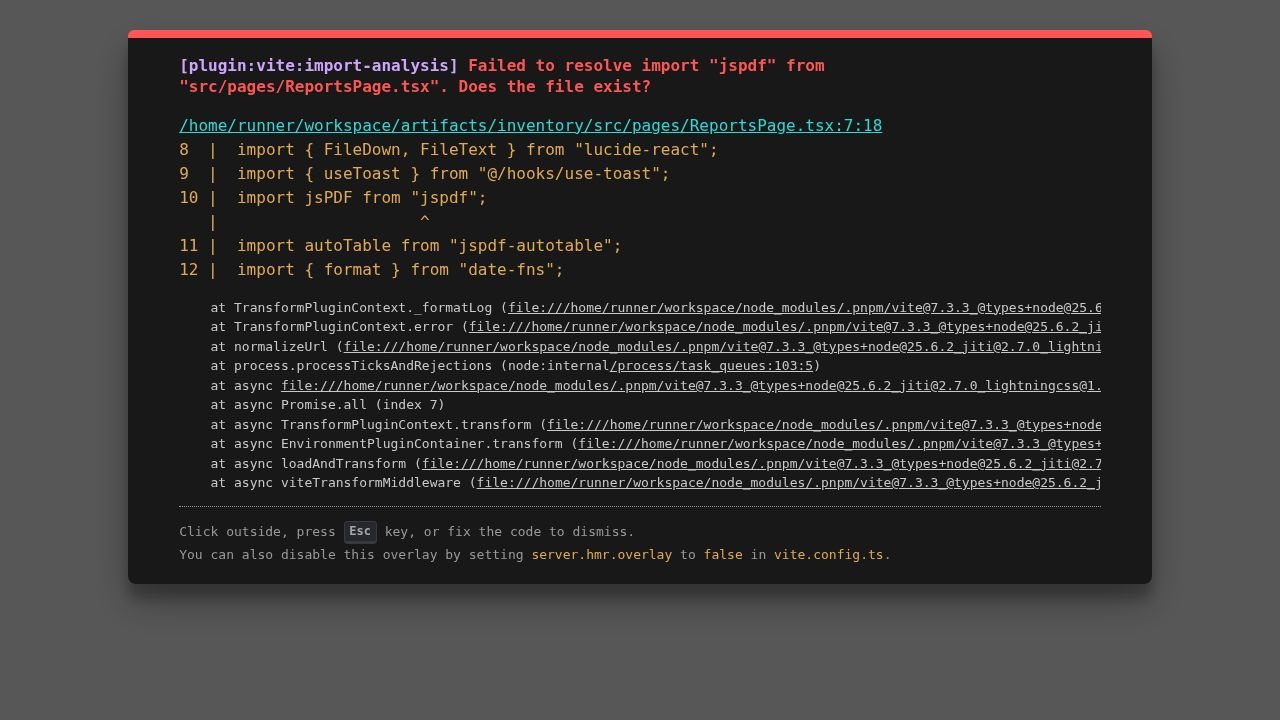
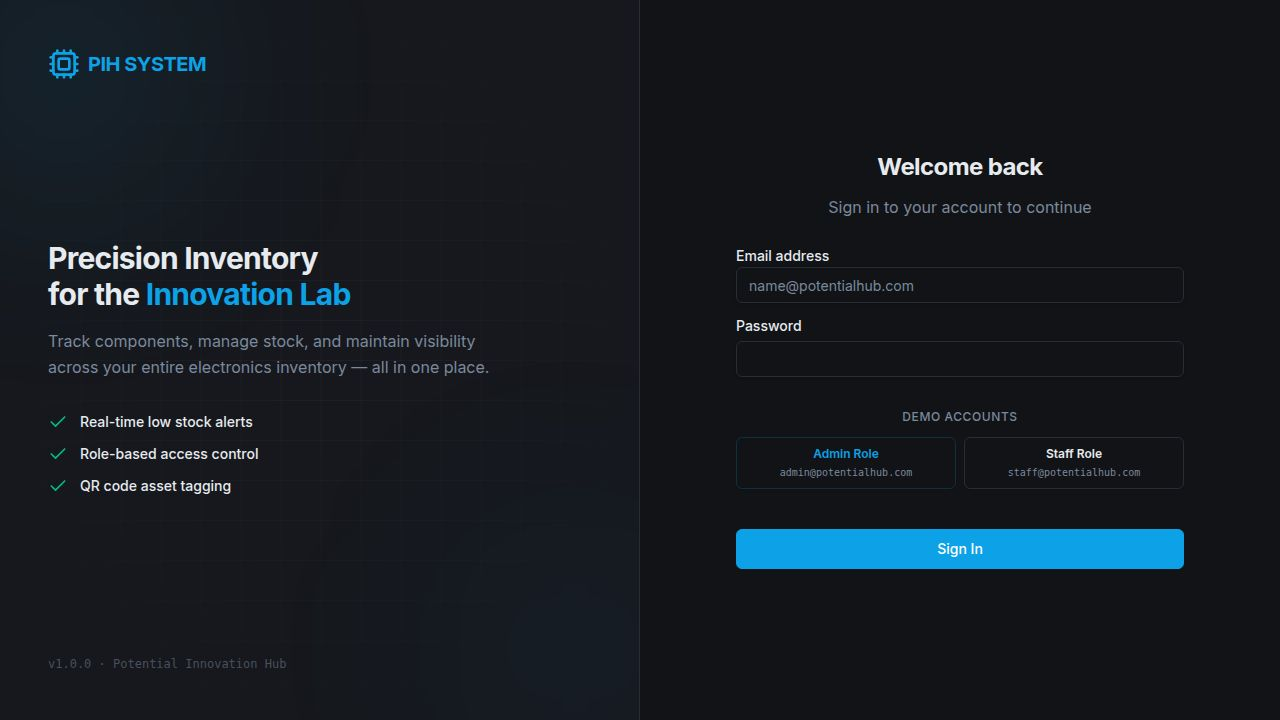
Add analytics and reporting features to the inventory system
Implement a new Analytics page with various charts and data visualizations. Add route, sidebar link, and update seed data for enhanced activity logging in InventoryContext.

Replit-Commit-Author: Agent
Replit-Commit-Session-Id: 5e228c1e-0fa5-49ac-8a54-2dff57d253f3
Replit-Commit-Checkpoint-Type: full_checkpoint
Replit-Commit-Event-Id: 973bac39-b75d-4238-b868-bb2c022313d0
Replit-Commit-Screenshot-Url: https://storage.googleapis.com/screenshot-production-us-central1/1eb6c5bf-e7fe-4302-af5e-14810ef1dc81/5e228c1e-0fa5-49ac-8a54-2dff57d253f3/sZeF8Xh
Replit-Helium-Checkpoint-Created: true

diff --git a/artifacts/inventory/src/pages/AnalyticsPage.tsx b/artifacts/inventory/src/pages/AnalyticsPage.tsx
@@ -1,0 +1,247 @@
+import { useMemo } from "react";
+import { AppLayout } from "@/components/layout/AppLayout";
+import { PageHeader } from "@/components/layout/PageHeader";
+import { StatCard } from "@/components/dashboard/StatCard";
+import { useInventory } from "@/context/InventoryContext";
+import { Card, CardContent, CardDescription, CardHeader, CardTitle } from "@/components/ui/card";
+import { Badge } from "@/components/ui/badge";
+import { Table, TableBody, TableCell, TableHead, TableHeader, TableRow } from "@/components/ui/table";
+import { Activity, Package, TrendingUp, Users } from "lucide-react";
+import { Area, AreaChart, Bar, BarChart, CartesianGrid, Cell, Legend, Pie, PieChart, ResponsiveContainer, Tooltip, XAxis, YAxis } from "recharts";
+import { add, format, subDays, startOfDay, eachDayOfInterval } from "date-fns";
+
+const PIE_COLORS: Record<string, string> = {
+  Microcontroller: "#22d3ee",
+  Sensor: "#34d399",
+  Motor: "#f59e0b",
+  Breadboard: "#f97316",
+  Wiring: "#a78bfa",
+  Display: "#60a5fa",
+  Other: "#94a3b8"
+};
+
+export default function AnalyticsPage() {
+  const { activityLog, products } = useInventory();
+  
+  // Section A
+  const adjustedLogs = useMemo(() => activityLog.filter(l => l.action === "adjusted"), [activityLog]);
+  const totalAdjustments = adjustedLogs.length;
+
+  const { mostActiveProduct, avgDailyAdjustments, mostActiveUser } = useMemo(() => {
+    const productCounts = adjustedLogs.reduce((acc, log) => {
+      acc[log.productName] = (acc[log.productName] || 0) + 1;
+      return acc;
+    }, {} as Record<string, number>);
+    const mostProduct = Object.keys(productCounts).reduce((a, b) => productCounts[a] > productCounts[b] ? a : b, "");
+
+    const daysWithActivity = new Set(activityLog.map(l => format(new Date(l.timestamp), "yyyy-MM-dd"))).size;
+    const avgDaily = daysWithActivity > 0 ? (totalAdjustments / daysWithActivity).toFixed(1) : "0.0";
+
+    const userCounts = activityLog.reduce((acc, log) => {
+      acc[log.performedBy] = (acc[log.performedBy] || 0) + 1;
+      return acc;
+    }, {} as Record<string, number>);
+    const mostUser = Object.keys(userCounts).reduce((a, b) => userCounts[a] > userCounts[b] ? a : b, "");
+
+    return { mostActiveProduct: mostProduct, avgDailyAdjustments: avgDaily, mostActiveUser: mostUser };
+  }, [adjustedLogs, activityLog, totalAdjustments]);
+
+  // Section B
+  const areaData = useMemo(() => {
+    const thirtyDaysAgo = subDays(startOfDay(new Date()), 30);
+    const recentLogs = activityLog.filter(l => new Date(l.timestamp) >= thirtyDaysAgo);
+    
+    const dailyDataMap = recentLogs.reduce((acc, log) => {
+      const date = format(new Date(log.timestamp), "yyyy-MM-dd");
+      if (!acc[date]) acc[date] = { date, adjustments: 0, edits: 0, total: 0 };
+      acc[date].total += 1;
+      if (log.action === "adjusted") acc[date].adjustments += 1;
+      if (log.action === "edited") acc[date].edits += 1;
+      return acc;
+    }, {} as Record<string, { date: string, adjustments: number, edits: number, total: number }>);
+
+    const daysInterval = eachDayOfInterval({ start: thirtyDaysAgo, end: new Date() });
+    return daysInterval.map(day => {
+      const dateStr = format(day, "yyyy-MM-dd");
+      return dailyDataMap[dateStr] || { date: dateStr, adjustments: 0, edits: 0, total: 0 };
+    });
+  }, [activityLog]);
+
+  // Section C Left
+  const topAdjusted = useMemo(() => {
+    const productCounts = adjustedLogs.reduce((acc, log) => {
+      acc[log.productName] = (acc[log.productName] || 0) + 1;
+      return acc;
+    }, {} as Record<string, number>);
+    return Object.entries(productCounts)
+      .map(([name, count]) => ({ name, count }))
+      .sort((a, b) => b.count - a.count)
+      .slice(0, 8);
+  }, [adjustedLogs]);
+
+  // Section C Right
+  const pieData = useMemo(() => {
+    const pieDataMap = adjustedLogs.reduce((acc, log) => {
+      const product = products.find(p => p.id === log.productId);
+      const cat = product ? product.category : "Other";
+      acc[cat] = (acc[cat] || 0) + 1;
+      return acc;
+    }, {} as Record<string, number>);
+    return Object.entries(pieDataMap).map(([name, value]) => ({ name, value }));
+  }, [adjustedLogs, products]);
+
+  // Section D
+  const reorderForecast = useMemo(() => {
+    return products
+      .filter(p => adjustedLogs.some(l => l.productId === p.id))
+      .map(p => {
+        const count = adjustedLogs.filter(l => l.productId === p.id).length;
+        const avg = count / 30;
+        const daysUntil = avg > 0 ? Math.floor((p.quantity - p.minThreshold) / avg) : null;
+        const projDate = daysUntil !== null ? add(new Date(), { days: daysUntil }) : null;
+        return { product: p, avg, daysUntil, projDate };
+      })
+      .sort((a, b) => {
+        if (a.daysUntil === null) return 1;
+        if (b.daysUntil === null) return -1;
+        return a.daysUntil - b.daysUntil;
+      });
+  }, [products, adjustedLogs]);
+
+  return (
+    <AppLayout>
+      <div className="space-y-6">
+        <PageHeader crumbs={[{ label: "Dashboard", href: "/dashboard" }, { label: "Analytics" }]} />
+        <div>
+          <h1 className="text-2xl font-bold tracking-tight">Usage Analytics</h1>
+          <p className="text-sm text-muted-foreground mt-1">Consumption trends and adjustment frequency across the inventory</p>
+        </div>
+
+        <div className="grid grid-cols-1 md:grid-cols-4 gap-4">
+          <StatCard title="Total Adjustments" value={totalAdjustments} icon={<Activity className="h-4 w-4" />} />
+          <StatCard title="Most Active Product" value={mostActiveProduct || "-"} icon={<Package className="h-4 w-4" />} />
+          <StatCard title="Avg Daily Adjustments" value={avgDailyAdjustments} icon={<TrendingUp className="h-4 w-4" />} />
+          <StatCard title="Most Active User" value={mostActiveUser || "-"} icon={<Users className="h-4 w-4" />} />
+        </div>
+
+        <Card>
+          <CardHeader>
+            <CardTitle>Adjustment Activity — Last 30 Days</CardTitle>
+          </CardHeader>
+          <CardContent>
+            <div className="h-[220px] w-full">
+              <ResponsiveContainer width="100%" height="100%">
+                <AreaChart data={areaData} margin={{ top: 10, right: 30, left: 0, bottom: 0 }}>
+                  <defs>
+                    <linearGradient id="colorAdj" x1="0" y1="0" x2="0" y2="1">
+                      <stop offset="5%" stopColor="#22d3ee" stopOpacity={0.15}/>
+                      <stop offset="95%" stopColor="#22d3ee" stopOpacity={0}/>
+                    </linearGradient>
+                    <linearGradient id="colorEdits" x1="0" y1="0" x2="0" y2="1">
+                      <stop offset="5%" stopColor="#a78bfa" stopOpacity={0.15}/>
+                      <stop offset="95%" stopColor="#a78bfa" stopOpacity={0}/>
+                    </linearGradient>
+                  </defs>
+                  <XAxis dataKey="date" tickFormatter={(val) => format(new Date(val), "MMM d")} tick={{ fill: "#64748b" }} interval={4} />
+                  <YAxis tick={{ fill: "#64748b" }} />
+                  <CartesianGrid strokeDasharray="3 3" stroke="#1e293b" />
+                  <Tooltip contentStyle={{ backgroundColor: 'hsl(220 13% 12%)', border: '1px solid hsl(220 12% 18%)', borderRadius: '6px', color: 'hsl(210 20% 92%)' }} labelFormatter={(val) => format(new Date(val), "MMM d, yyyy")} />
+                  <Legend verticalAlign="bottom" height={36} />
+                  <Area type="monotone" dataKey="adjustments" name="Adjustments" stroke="#22d3ee" fillOpacity={1} fill="url(#colorAdj)" />
+                  <Area type="monotone" dataKey="edits" name="Edits" stroke="#a78bfa" fillOpacity={1} fill="url(#colorEdits)" />
+                </AreaChart>
+              </ResponsiveContainer>
+            </div>
+          </CardContent>
+        </Card>
+
+        <div className="grid grid-cols-1 md:grid-cols-2 gap-6">
+          <Card>
+            <CardHeader>
+              <CardTitle>Most Adjusted Components</CardTitle>
+            </CardHeader>
+            <CardContent>
+              <div className="h-[260px] w-full">
+                <ResponsiveContainer width="100%" height="100%">
+                  <BarChart data={topAdjusted} layout="vertical" margin={{ top: 0, right: 20, left: 0, bottom: 0 }}>
+                    <XAxis type="number" tick={{ fill: "#64748b" }} />
+                    <YAxis dataKey="name" type="category" width={140} tick={{ fill: "#94a3b8", fontSize: 11 }} />
+                    <CartesianGrid strokeDasharray="3 3" stroke="#1e293b" horizontal={false} />
+                    <Tooltip contentStyle={{ backgroundColor: 'hsl(220 13% 12%)', border: '1px solid hsl(220 12% 18%)', borderRadius: '6px', color: 'hsl(210 20% 92%)' }} cursor={{ fill: 'rgba(255, 255, 255, 0.05)' }} />
+                    <Bar dataKey="count" name="Count" fill="#22d3ee" radius={[0, 3, 3, 0]} />
+                  </BarChart>
+                </ResponsiveContainer>
+              </div>
+            </CardContent>
+          </Card>
+          <Card>
+            <CardHeader>
+              <CardTitle>Activity by Category</CardTitle>
+            </CardHeader>
+            <CardContent>
+              <div className="h-[260px] w-full">
+                <ResponsiveContainer width="100%" height="100%">
+                  <PieChart>
+                    <Pie data={pieData} cx="50%" cy="50%" innerRadius={55} outerRadius={90} paddingAngle={2} dataKey="value">
+                      {pieData.map((entry, index) => (
+                        <Cell key={`cell-${index}`} fill={PIE_COLORS[entry.name] || PIE_COLORS.Other} />
+                      ))}
+                    </Pie>
+                    <Tooltip contentStyle={{ backgroundColor: 'hsl(220 13% 12%)', border: '1px solid hsl(220 12% 18%)', borderRadius: '6px', color: 'hsl(210 20% 92%)' }} itemStyle={{ color: 'hsl(210 20% 92%)' }} />
+                    <Legend verticalAlign="bottom" height={36} iconType="circle" />
+                  </PieChart>
+                </ResponsiveContainer>
+              </div>
+            </CardContent>
+          </Card>
+        </div>
+
+        <Card>
+          <CardHeader>
+            <CardTitle>Consumption Rate & Reorder Forecast</CardTitle>
+            <CardDescription>Based on quantity adjustment history. Estimates are projections only.</CardDescription>
+          </CardHeader>
+          <CardContent>
+            <Table>
+              <TableHeader>
+                <TableRow>
+                  <TableHead>Product</TableHead>
+                  <TableHead>Category</TableHead>
+                  <TableHead className="text-right">Current Qty</TableHead>
+                  <TableHead className="text-right">Avg Daily Usage</TableHead>
+                  <TableHead className="text-right">Days Until Reorder</TableHead>
+                  <TableHead className="text-right">Projected Reorder Date</TableHead>
+                  <TableHead>Risk</TableHead>
+                </TableRow>
+              </TableHeader>
+              <TableBody>
+                {reorderForecast.map((row) => (
+                  <TableRow key={row.product.id}>
+                    <TableCell className="font-medium">{row.product.name}</TableCell>
+                    <TableCell>{row.product.category}</TableCell>
+                    <TableCell className="text-right">{row.product.quantity}</TableCell>
+                    <TableCell className="text-right">{row.avg.toFixed(2)}</TableCell>
+                    <TableCell className="text-right">{row.daysUntil !== null ? row.daysUntil : "-"}</TableCell>
+                    <TableCell className="text-right">{row.projDate ? format(row.projDate, "MMM d, yyyy") : "-"}</TableCell>
+                    <TableCell>
+                      {row.daysUntil === null ? (
+                        <Badge variant="secondary" className="text-muted-foreground bg-muted">NO DATA</Badge>
+                      ) : row.daysUntil <= 7 ? (
+                        <Badge variant="destructive">URGENT</Badge>
+                      ) : row.daysUntil <= 21 ? (
+                        <Badge className="bg-amber-500 hover:bg-amber-600 text-white">SOON</Badge>
+                      ) : (
+                        <Badge className="bg-emerald-500 hover:bg-emerald-600 text-white">STABLE</Badge>
+                      )}
+                    </TableCell>
+                  </TableRow>
+                ))}
+              </TableBody>
+            </Table>
+            <p className="text-xs text-muted-foreground mt-4">* Projections based on adjustment frequency logged in the last 30 days. Actual usage may vary.</p>
+          </CardContent>
+        </Card>
+      </div>
+    </AppLayout>
+  );
+}

diff --git a/artifacts/inventory/src/context/InventoryContext.tsx b/artifacts/inventory/src/context/InventoryContext.tsx
@@ -66,16 +66,37 @@ const seedProducts: Product[] = [
   { id: "PRD-020", name: "L298N Motor Driver", category: "Other", unitPrice: 5.00, quantity: 11, minThreshold: 5, storageLocation: "Shelf G-2", lastUpdated: new Date().toISOString() }
 ];
 
-const seedActivityLog: ActivityLog[] = [
-  { id: "ACT-001", action: "added", productId: "PRD-001", productName: "Arduino Uno", timestamp: new Date(Date.now() - 10000000).toISOString(), performedBy: "Admin" },
-  { id: "ACT-002", action: "added", productId: "PRD-002", productName: "Arduino Nano", timestamp: new Date(Date.now() - 9000000).toISOString(), performedBy: "Admin" },
-  { id: "ACT-003", action: "added", productId: "PRD-003", productName: "ESP32", timestamp: new Date(Date.now() - 8000000).toISOString(), performedBy: "Admin" },
-  { id: "ACT-004", action: "added", productId: "PRD-004", productName: "ESP8266", timestamp: new Date(Date.now() - 7000000).toISOString(), performedBy: "Admin" },
-  { id: "ACT-005", action: "added", productId: "PRD-005", productName: "AI Camera Module", timestamp: new Date(Date.now() - 6000000).toISOString(), performedBy: "Admin" },
-  { id: "ACT-006", action: "added", productId: "PRD-006", productName: "Breadboard", timestamp: new Date(Date.now() - 5000000).toISOString(), performedBy: "Admin" },
-  { id: "ACT-007", action: "added", productId: "PRD-007", productName: "Mini Breadboard", timestamp: new Date(Date.now() - 4000000).toISOString(), performedBy: "Admin" },
-  { id: "ACT-008", action: "added", productId: "PRD-008", productName: "Vero Board", timestamp: new Date(Date.now() - 3000000).toISOString(), performedBy: "Admin" },
-];
+const seedActivityLog: ActivityLog[] = Array.from({ length: 40 }).map((_, i) => {
+  const isAdded = i >= 32;
+  const isEdited = i >= 24 && i < 32;
+  
+  let action: "added" | "edited" | "adjusted" = "adjusted";
+  if (isAdded) action = "added";
+  else if (isEdited) action = "edited";
+
+  const products = [
+    { id: "PRD-001", name: "Arduino Uno" },
+    { id: "PRD-003", name: "ESP32" },
+    { id: "PRD-006", name: "Breadboard" },
+    { id: "PRD-009", name: "Male-to-Male Jumper Wires" },
+    { id: "PRD-002", name: "Arduino Nano" },
+    { id: "PRD-012", name: "SG90 Servo Motor" },
+    { id: "PRD-017", name: "16x2 LCD Display" },
+    { id: "PRD-005", name: "AI Camera Module" }
+  ];
+
+  const product = isAdded ? products[i - 32] : products[i % products.length];
+  const offsetMs = isAdded ? 30 * 24 * 60 * 60 * 1000 : Math.floor(Math.random() * 30 * 24 * 60 * 60 * 1000);
+
+  return {
+    id: `ACT-s${String(i).padStart(3, "0")}`,
+    action,
+    productId: product.id,
+    productName: product.name,
+    timestamp: new Date(Date.now() - offsetMs).toISOString(),
+    performedBy: i % 3 === 0 ? "Admin User" : "Lab Staff",
+  };
+}).sort((a, b) => new Date(b.timestamp).getTime() - new Date(a.timestamp).getTime());
 
 const InventoryContext = createContext<InventoryContextType | undefined>(undefined);
 

diff --git a/artifacts/inventory/src/App.tsx b/artifacts/inventory/src/App.tsx
@@ -9,6 +9,7 @@ import ProductsPage from "@/pages/ProductsPage";
 import ProductDetailPage from "@/pages/ProductDetailPage";
 import ReportsPage from "@/pages/ReportsPage";
 import ReorderPage from "@/pages/ReorderPage";
+import AnalyticsPage from "@/pages/AnalyticsPage";
 import { CommandPalette } from "@/components/CommandPalette";
 import { useEffect } from "react";
 
@@ -48,6 +49,9 @@ function Router() {
       </Route>
       <Route path="/reorder">
         <ProtectedRoute component={ReorderPage} />
+      </Route>
+      <Route path="/analytics">
+        <ProtectedRoute component={AnalyticsPage} />
       </Route>
       <Route path="/product/:id">
         {params => <ProtectedRoute component={ProductDetailPage} id={params.id} />}

diff --git a/artifacts/inventory/src/components/layout/Sidebar.tsx b/artifacts/inventory/src/components/layout/Sidebar.tsx
@@ -1,5 +1,5 @@
 import { Link, useLocation } from "wouter";
-import { LayoutDashboard, Package, FileText, Cpu, ShoppingCart, Search, LogOut } from "lucide-react";
+import { LayoutDashboard, Package, FileText, Cpu, ShoppingCart, Search, LogOut, BarChart2 } from "lucide-react";
 import { cn } from "@/lib/utils";
 import { useInventory } from "@/context/InventoryContext";
 import { Badge } from "@/components/ui/badge";
@@ -17,6 +17,7 @@ export function Sidebar() {
     { href: "/products", label: "Inventory", icon: Package, badge: criticalCount > 0 ? criticalCount : null },
     { href: "/reorder", label: "Reorder", icon: ShoppingCart, badge: criticalCount > 0 ? criticalCount : null },
     { href: "/reports", label: "Reports", icon: FileText },
+    { href: "/analytics", label: "Analytics", icon: BarChart2 },
   ];
 
   const handleLogout = () => {